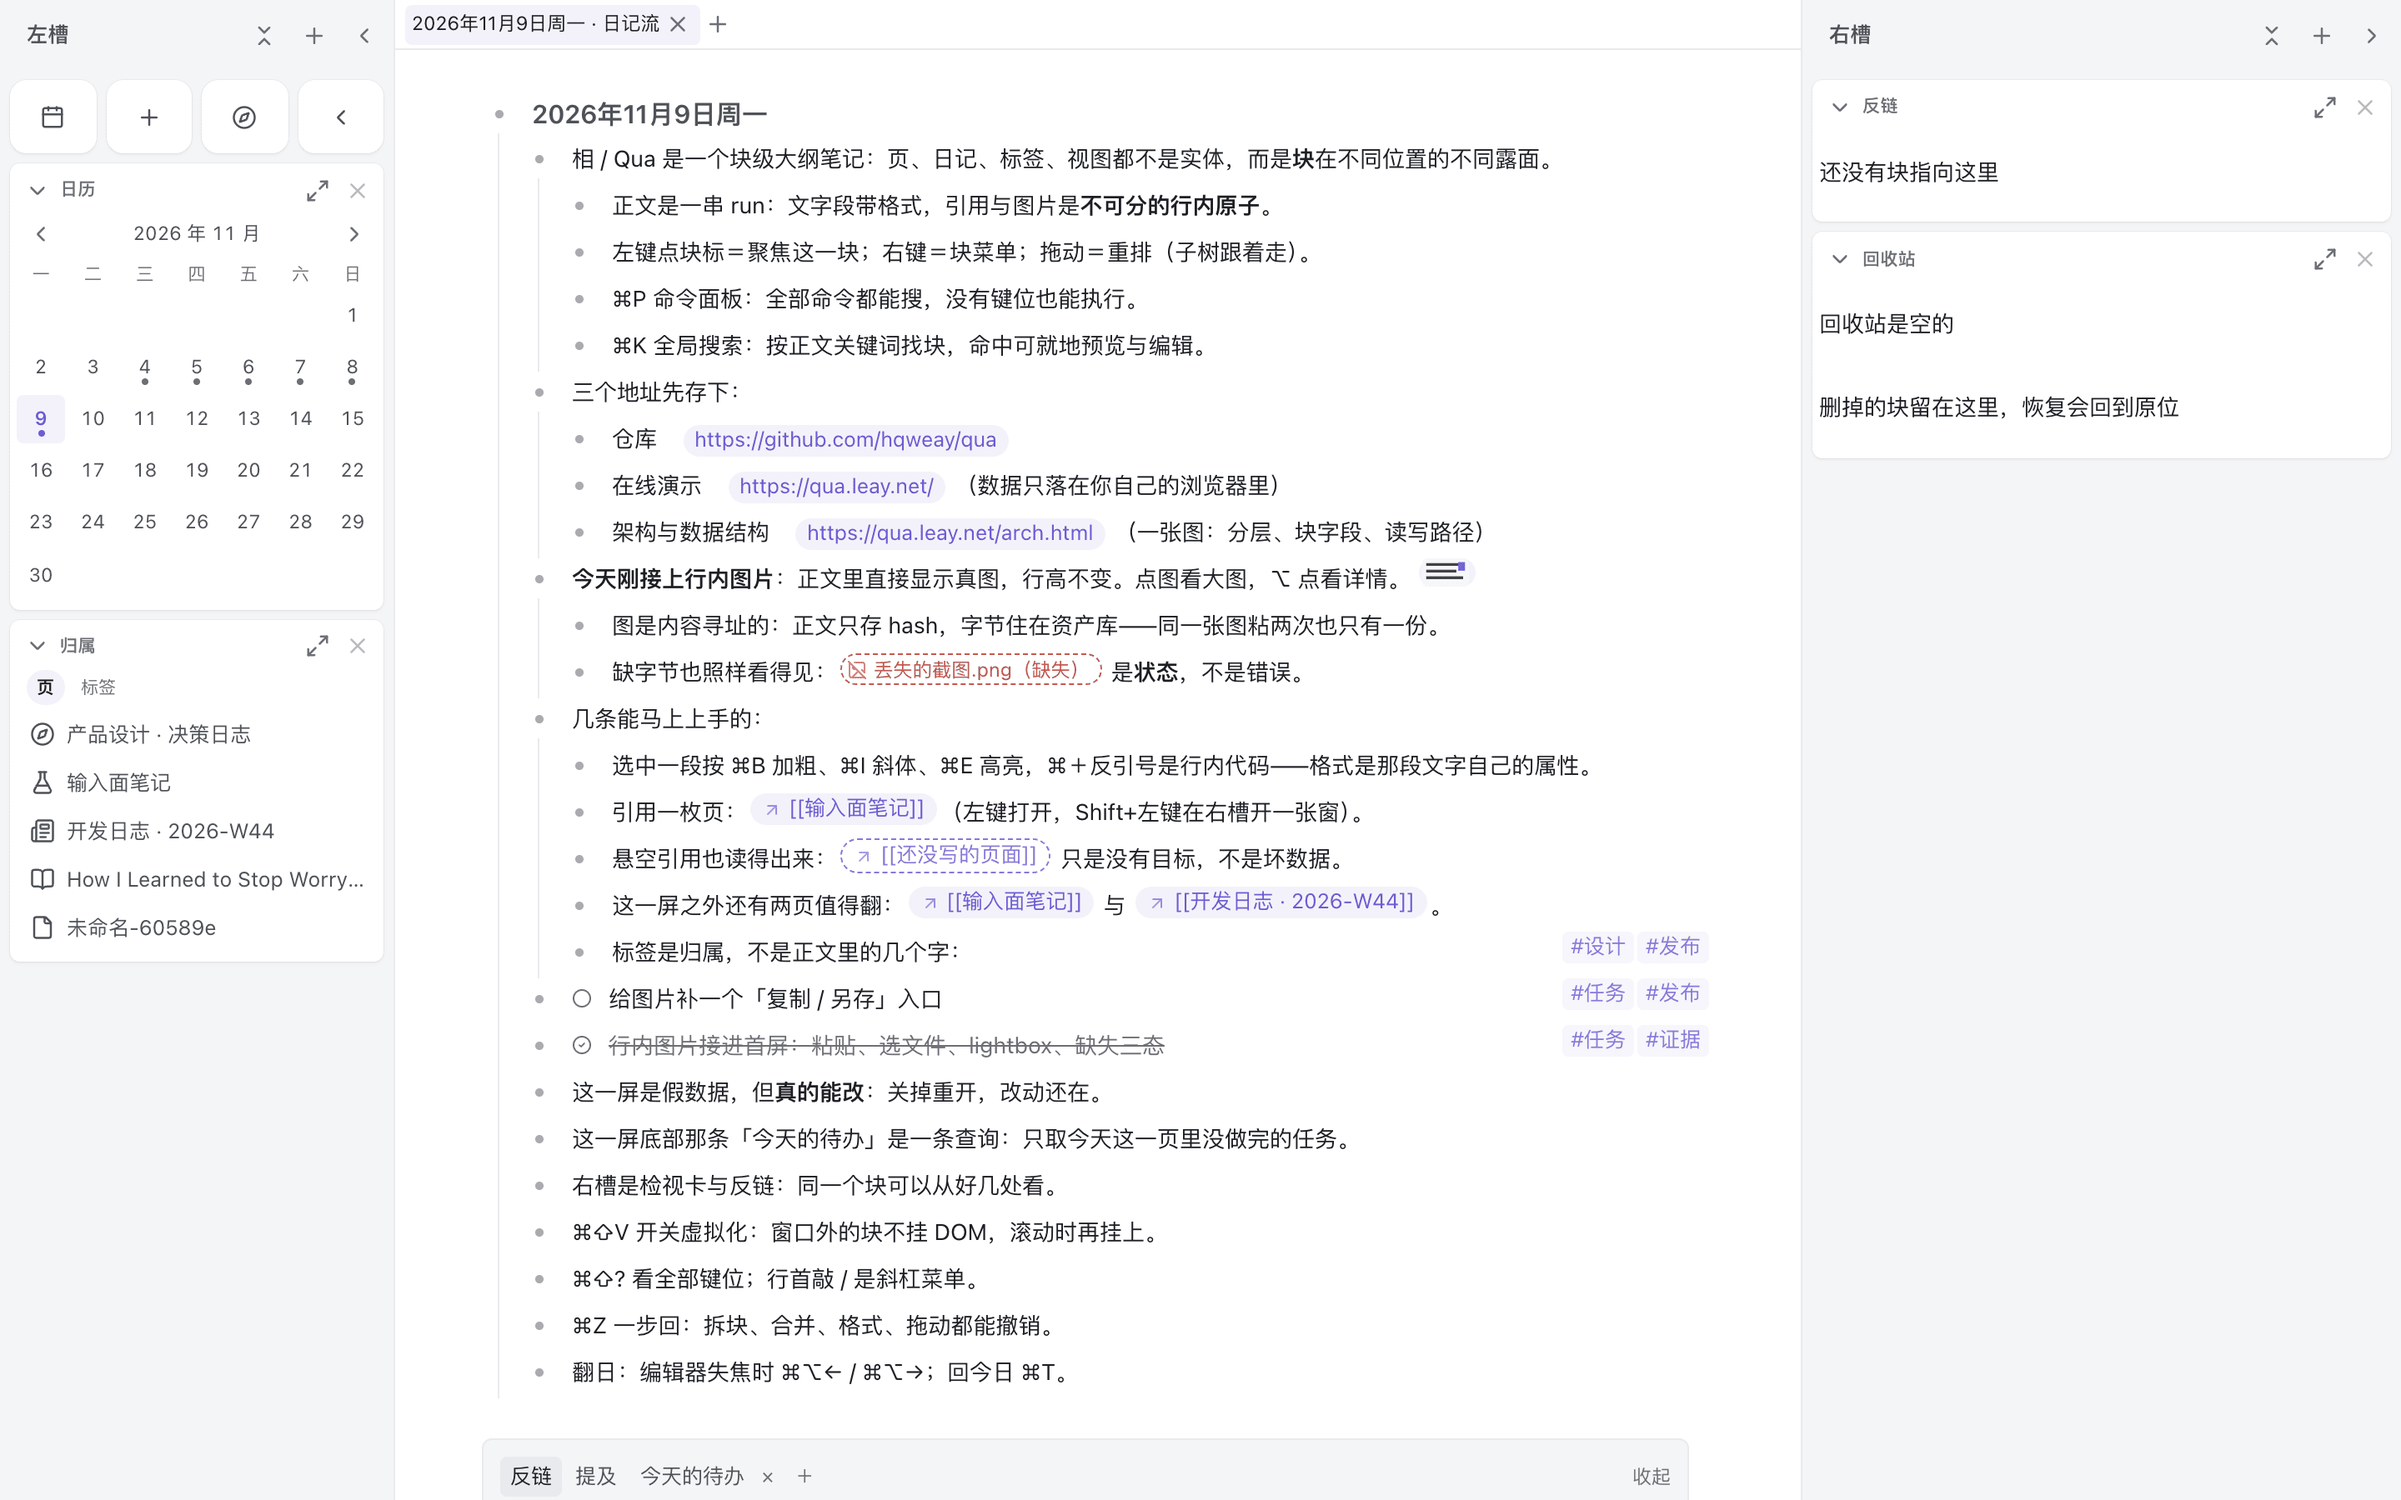
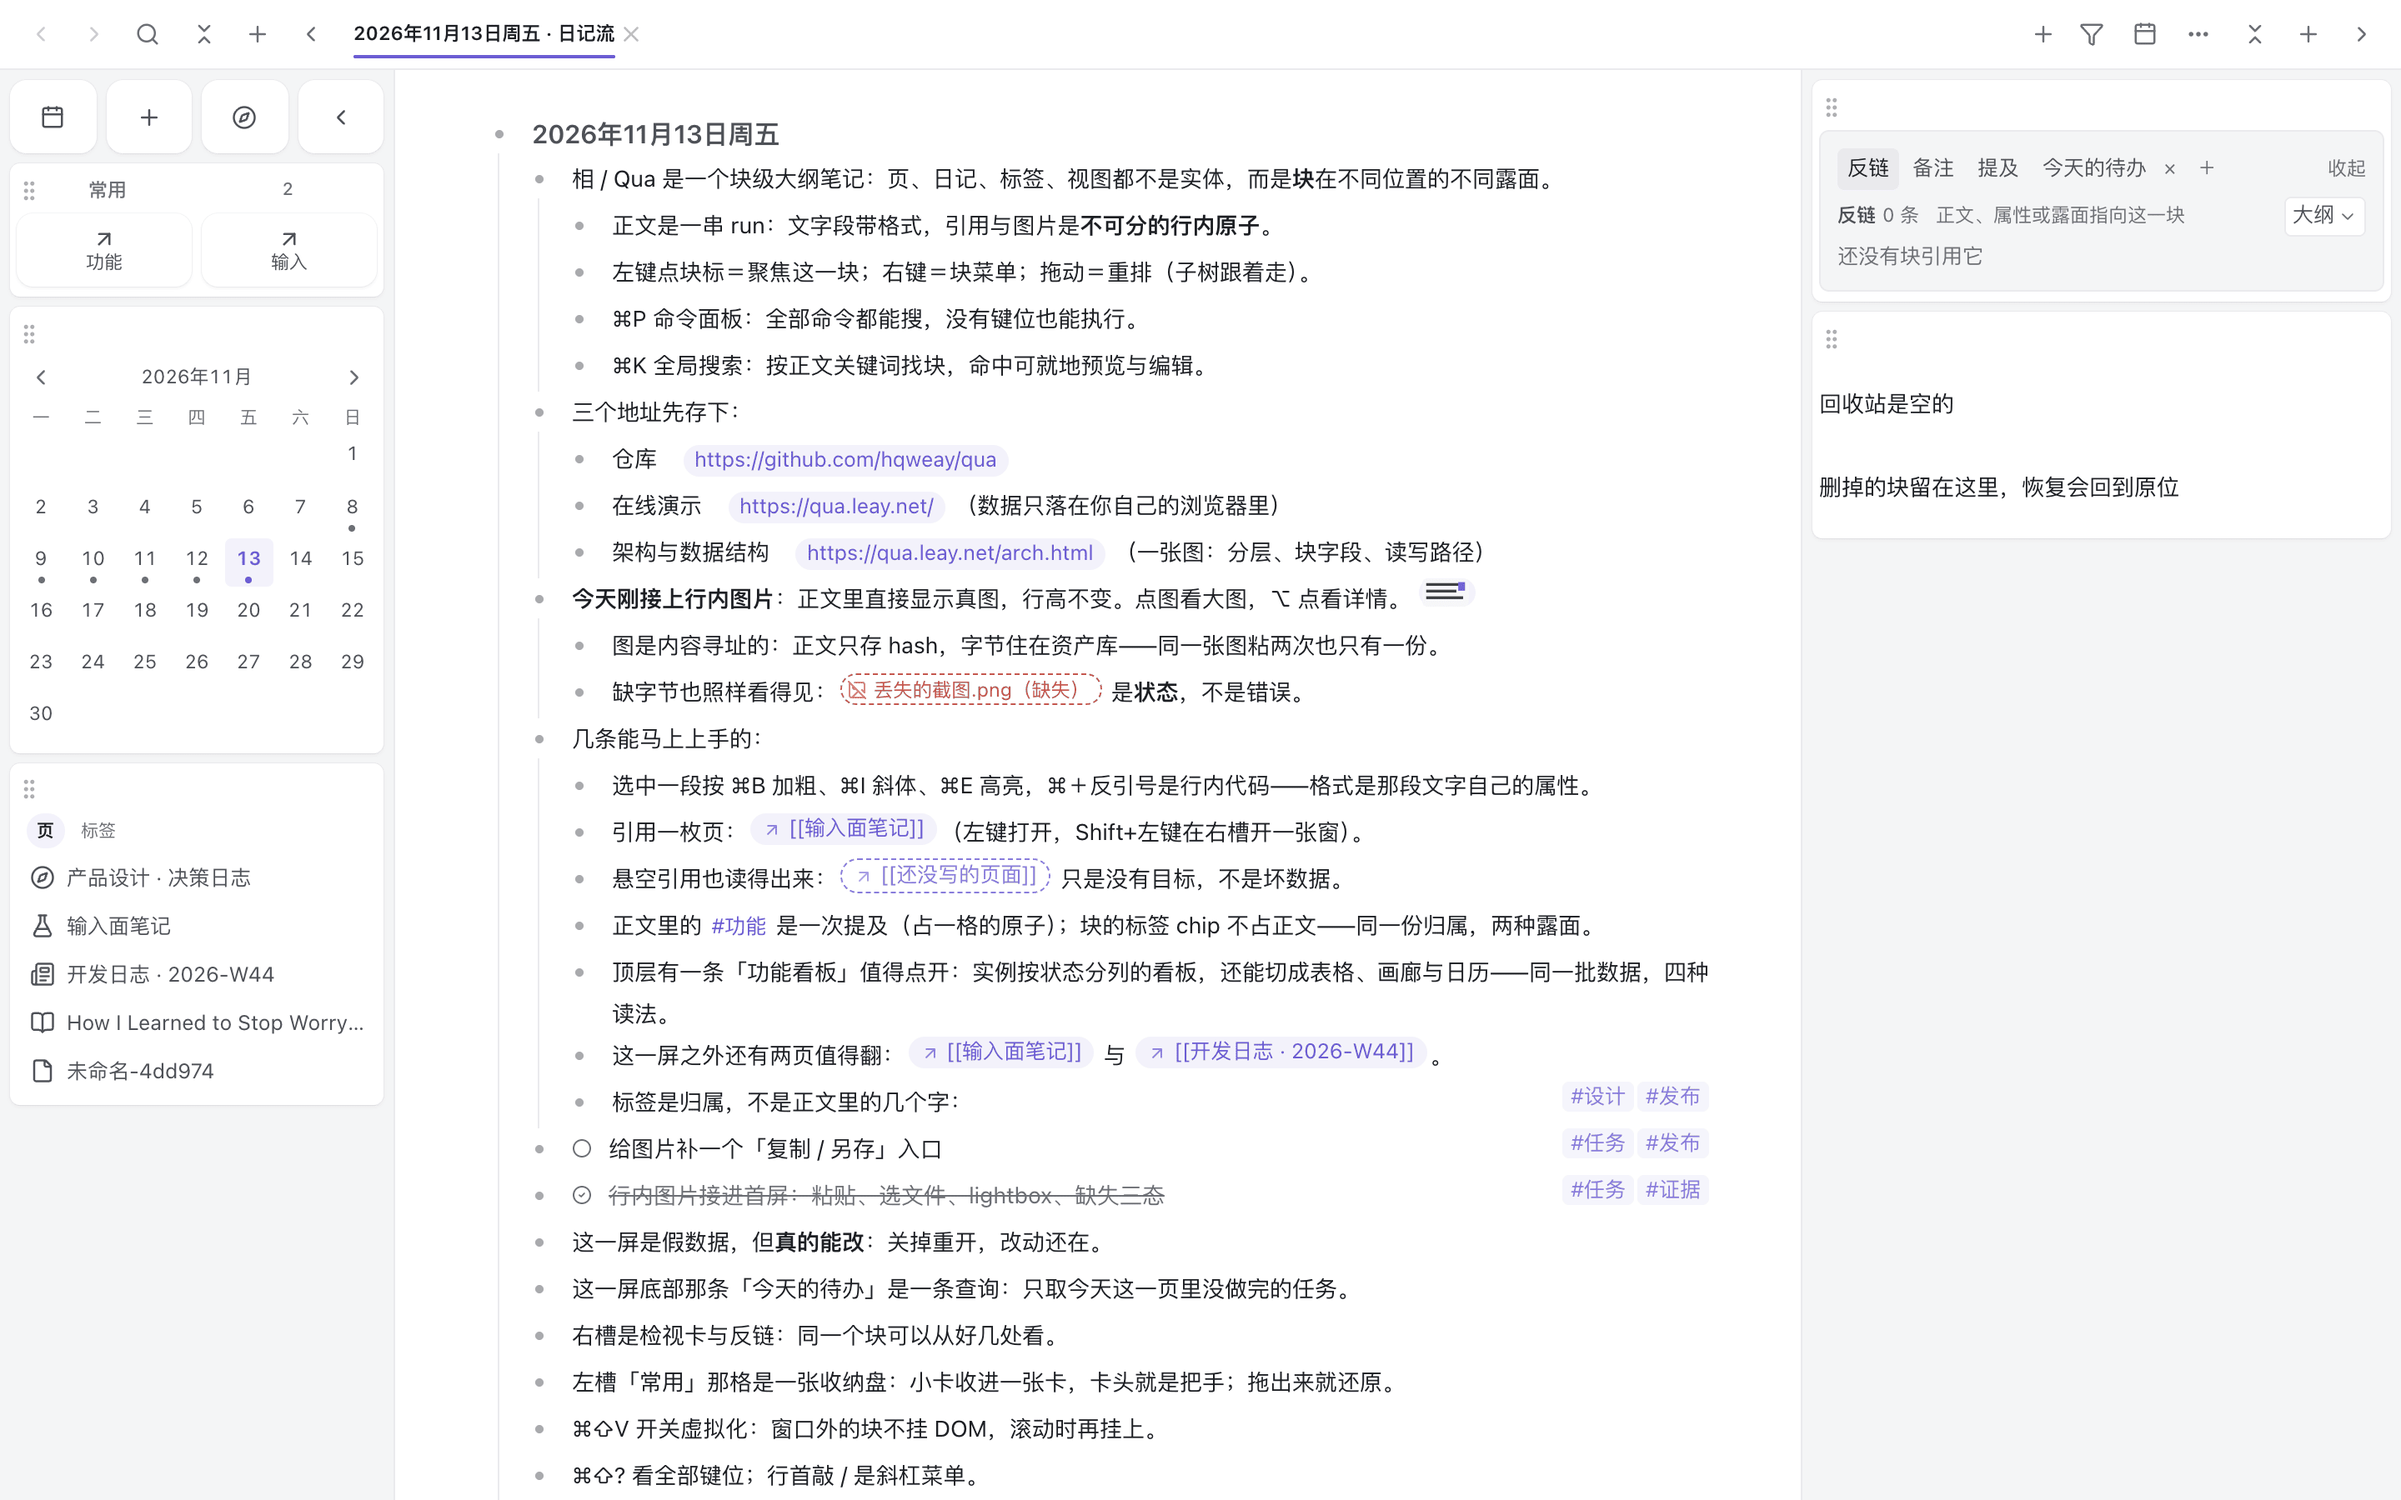
docs: README 侧槽卡清单与浏览器存储口径对齐现状＋重拍四张 README 截图（当前 UI，pngquant 压图）

diff --git a/README.md b/README.md
@@ -52,7 +52,7 @@ pnpm build:mac
 这个设计背后的模型（页、日记、标签、视图为何都能还原成块）写在
 [`docs/模型-一切皆块.md`](docs/模型-一切皆块.md)，感兴趣再读，不读不影响使用。
 
-![侧槽窗口：右槽是一列卡（窗口、检视、反链、回收站），窗口卡里是同一份内容，能直接改](shots/dock-窗口卡.png)
+![侧槽窗口：右槽是一列卡（窗口、检视、挂载区、回收站等），窗口卡里是同一份内容，能直接改](shots/dock-窗口卡.png)
 
 ---
 
@@ -106,7 +106,8 @@ pnpm build:mac
 
 - **桌面版**：每个库是「文稿/Qua」下的一个目录，内容存在其中的 `qua.db`（SQLite），
   图片按内容哈希存在 `assets/`。每次编辑只写入改动过的部分，库大了也不变慢。
-- **浏览器**：数据在浏览器的 localStorage 里，换设备或清理浏览器数据前请先想好备份。
+- **浏览器**：正文与结构存在浏览器的 localStorage 里，行内图片存在 IndexedDB；
+  换设备或清理浏览器数据前请先想好备份。
 - **删除**：删除是软删，回收站里可以一键恢复。
 
 ---
